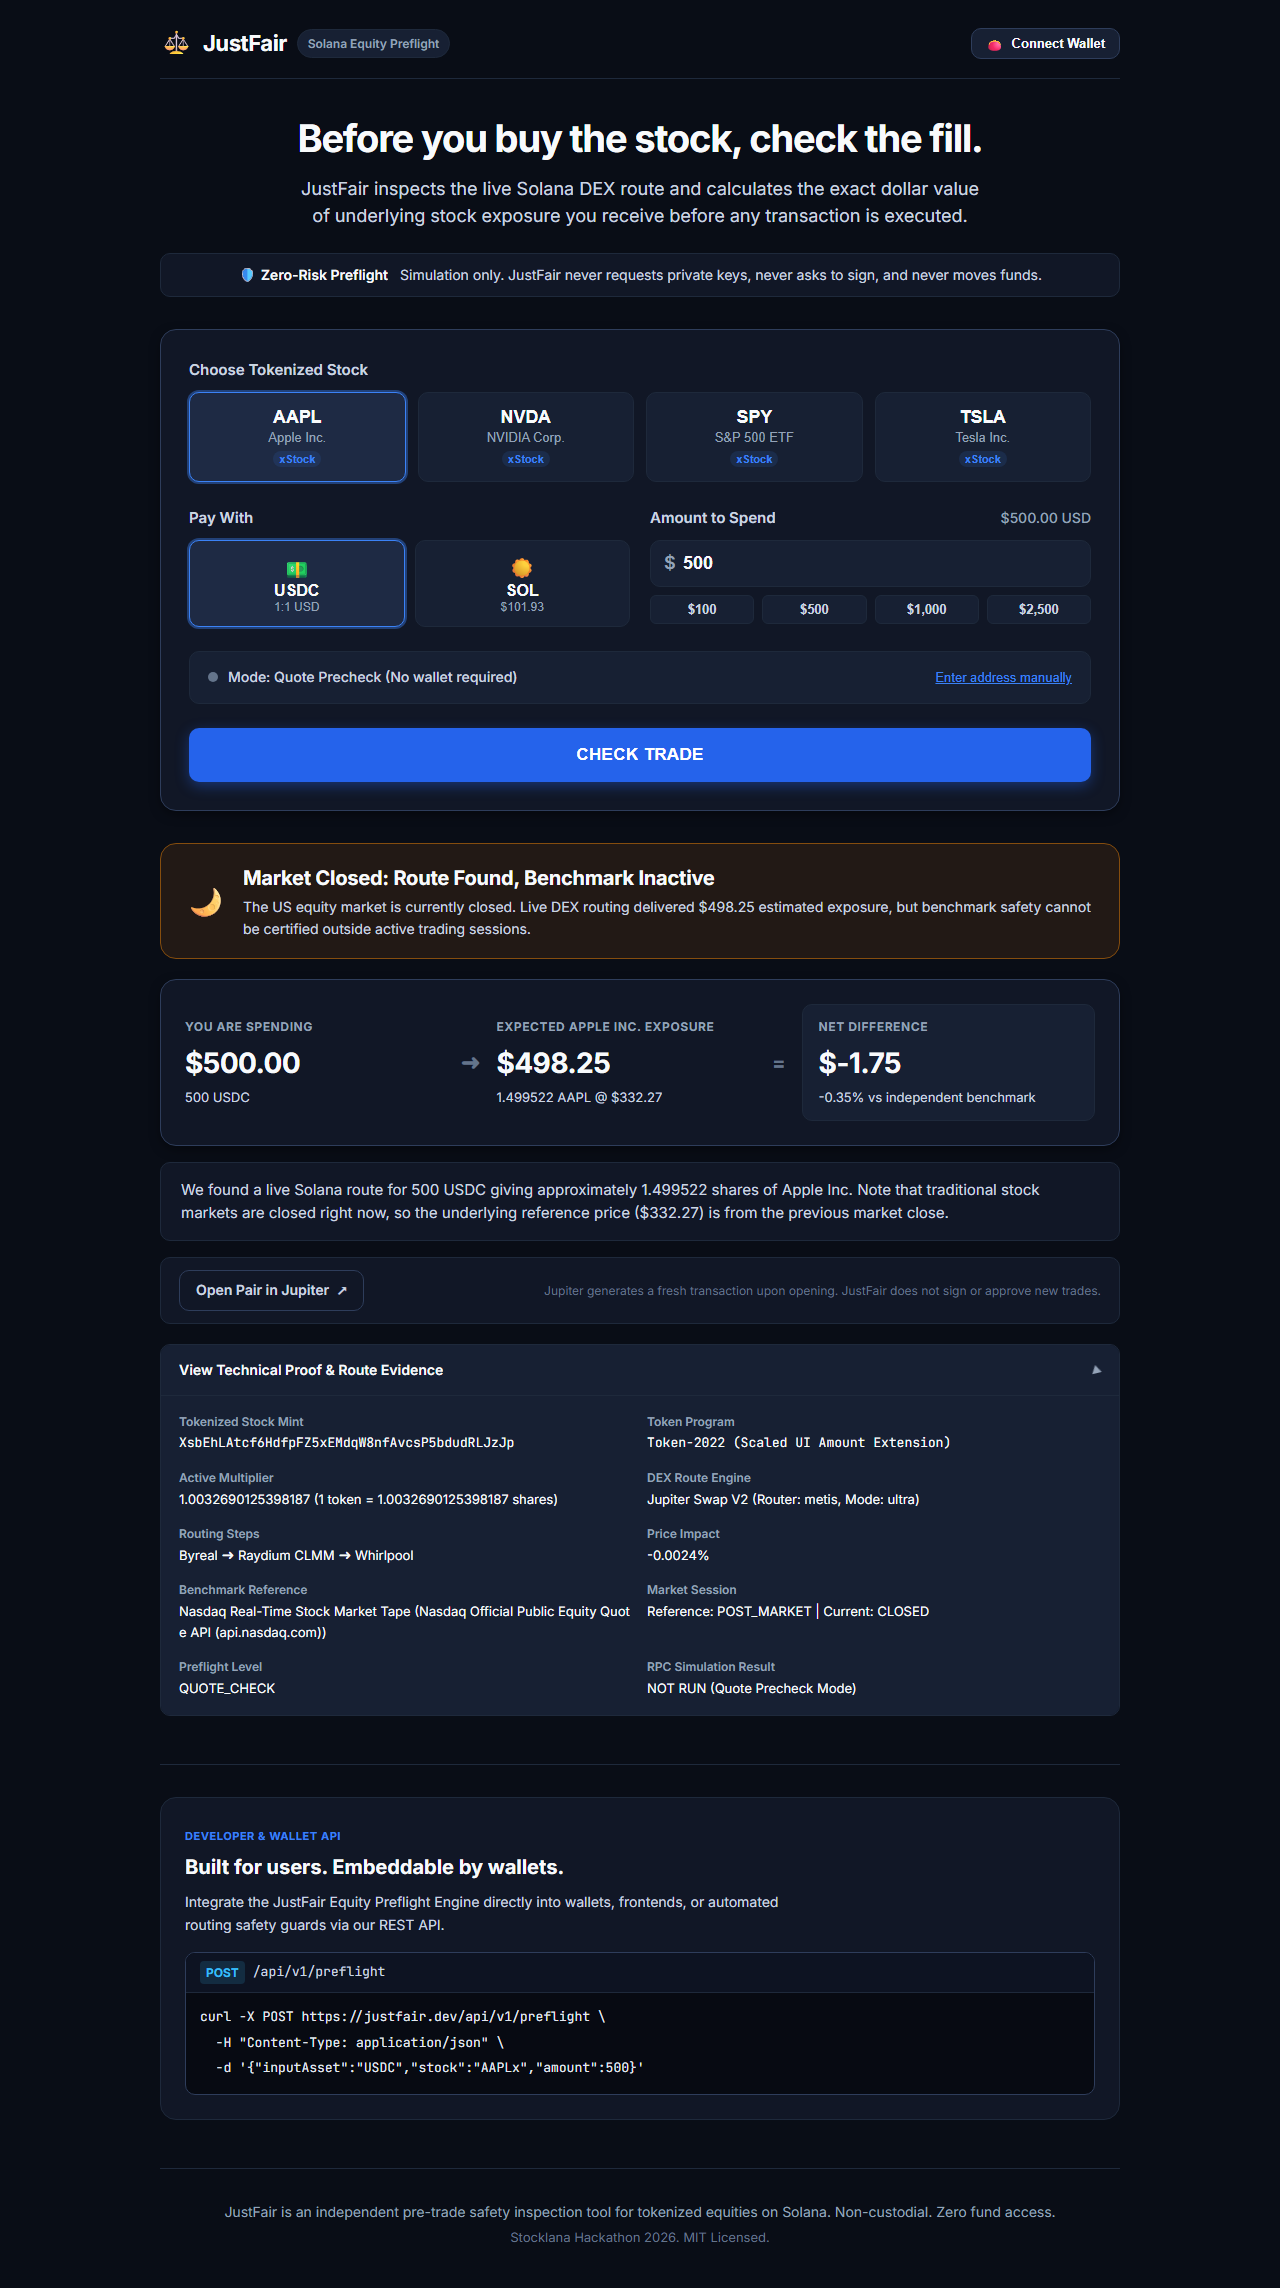
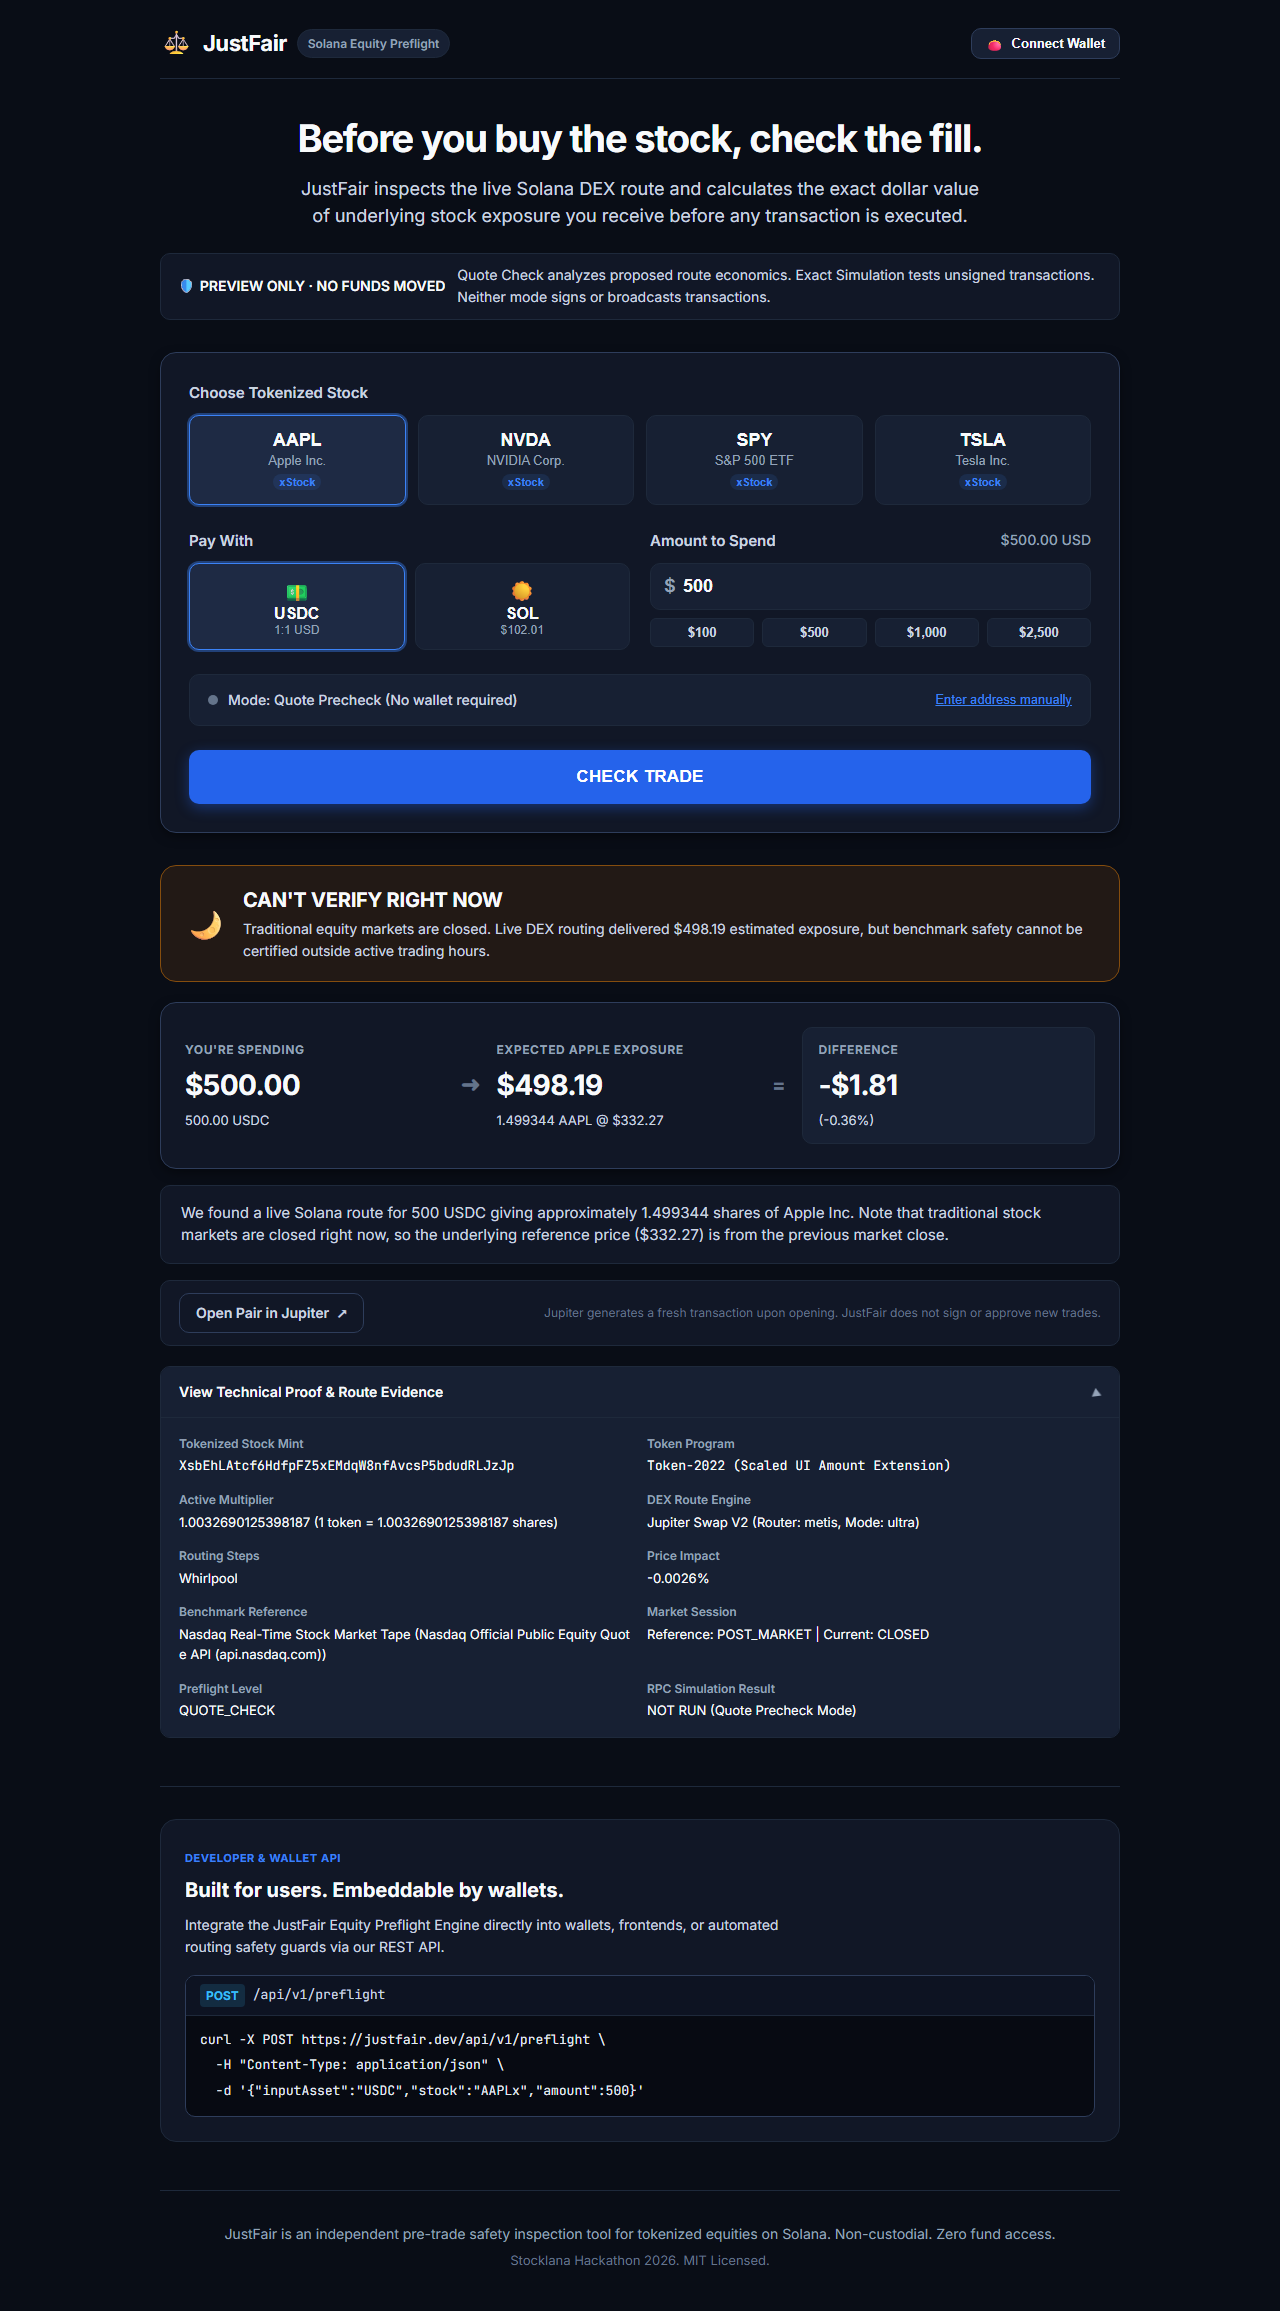
feat: complete Director Order 006.5 plain-money hierarchy, truthful safety copy, and UAT readiness

diff --git a/test/browser.test.js b/test/browser.test.js
@@ -42,7 +42,7 @@ async function runBrowserTests() {
 
   try {
     // 1. Initial Page Load & Render
-    await test("1. Initial page load renders hero, controls, and zero jargon headline", async () => {
+    await test("1. Initial page load renders hero, controls, safety banner with no Zero-Risk claim", async () => {
       await page.goto(BASE_URL, { waitUntil: "networkidle" });
       const heroText = await page.textContent(".hero-headline");
       if (!heroText.includes("Before you buy the stock, check the fill.")) {
@@ -54,11 +54,20 @@ async function runBrowserTests() {
         throw new Error(`Primary CTA mismatch: ${ctaText}`);
       }
 
+      // Check safety notice: MUST contain "NO FUNDS MOVED", MUST NOT contain "Zero-Risk" or "zero risk"
+      const pageContent = await page.content();
+      if (/zero-risk|zero\s+risk|risk-free/i.test(pageContent)) {
+        throw new Error("Page contains prohibited 'zero risk' or 'risk-free' claim");
+      }
+      if (!pageContent.includes("NO FUNDS MOVED")) {
+        throw new Error("Page does not contain expected 'NO FUNDS MOVED' safety copy");
+      }
+
       await page.screenshot({ path: path.join(EVIDENCE_DIR, "01_initial_page.png"), fullPage: true });
     });
 
     // 2. Form Interaction & Real API Trade Check (AAPLx + USDC $500)
-    await test("2. Real AAPLx + USDC trade check renders Big 3 plain-money values", async () => {
+    await test("2. Real AAPLx + USDC trade check renders locked 3 primary metrics and secondary shares", async () => {
       // Ensure AAPLx and USDC are active
       await page.click(".stock-chip[data-symbol='AAPLx']");
       await page.click(".payment-tab[data-asset='USDC']");
@@ -70,15 +79,35 @@ async function runBrowserTests() {
       // Wait for result container to appear
       await page.waitForSelector("#result-state:not(.hidden)", { timeout: 15000 });
 
+      // Metric #1: YOU'RE SPENDING
+      const spendLabel = await page.textContent(".money-stat:nth-child(1) .money-label");
       const spendVal = await page.textContent("#res-spend-val");
-      const exposureVal = await page.textContent("#res-exposure-val");
-      const diffVal = await page.textContent("#res-diff-val");
-      const explanation = await page.textContent("#res-explanation");
+      const spendSub = await page.textContent("#res-spend-sub");
+      if (!spendLabel.includes("YOU'RE SPENDING")) throw new Error(`Metric 1 label mismatch: ${spendLabel}`);
+      if (!spendVal.includes("$500.00")) throw new Error(`Metric 1 spend value mismatch: ${spendVal}`);
+      if (!spendSub.includes("USDC")) throw new Error(`Metric 1 subtext mismatch: ${spendSub}`);
 
-      if (!spendVal.includes("$500.00")) throw new Error(`Spend value mismatch: ${spendVal}`);
-      if (!exposureVal.includes("$")) throw new Error(`Exposure value missing: ${exposureVal}`);
-      if (!diffVal.includes("$")) throw new Error(`Difference value missing: ${diffVal}`);
-      if (!explanation || explanation.length < 20) throw new Error("Explanation text missing");
+      // Metric #2: EXPECTED APPLE EXPOSURE
+      const exposureLabel = await page.textContent("#res-exposure-label");
+      const exposureVal = await page.textContent("#res-exposure-val");
+      const exposureSub = await page.textContent("#res-exposure-sub");
+      if (!exposureLabel.includes("EXPECTED APPLE EXPOSURE")) throw new Error(`Metric 2 label mismatch: ${exposureLabel}`);
+      if (!exposureVal.includes("$")) throw new Error(`Metric 2 exposure value missing: ${exposureVal}`);
+      if (!exposureSub.includes("AAPL @ $")) throw new Error(`Metric 2 secondary shares mismatch: ${exposureSub}`);
+
+      // Metric #3: DIFFERENCE
+      const diffLabel = await page.textContent(".money-stat.highlight .money-label");
+      const diffVal = await page.textContent("#res-diff-val");
+      const diffPct = await page.textContent("#res-diff-pct");
+      if (!diffLabel.includes("DIFFERENCE")) throw new Error(`Metric 3 label mismatch: ${diffLabel}`);
+      if (!diffVal.includes("$")) throw new Error(`Metric 3 difference value missing: ${diffVal}`);
+      if (!diffPct.includes("%")) throw new Error(`Metric 3 difference percentage missing: ${diffPct}`);
+
+      // Verdict State: truthful CAN'T VERIFY RIGHT NOW or MEASURED
+      const verdictTitle = await page.textContent("#verdict-title");
+      if (!verdictTitle.includes("CAN'T VERIFY RIGHT NOW") && !verdictTitle.includes("MEASURED")) {
+        throw new Error(`Unexpected production verdict title: ${verdictTitle}`);
+      }
 
       await page.screenshot({ path: path.join(EVIDENCE_DIR, "02_aaplx_usdc_result.png"), fullPage: true });
       await page.screenshot({ path: path.join(EVIDENCE_DIR, "03_market_closed_measured_result.png"), fullPage: true });
@@ -189,3 +218,4 @@ runBrowserTests().catch(err => {
   console.error("Playwright Test Runner Crashed:", err);
   process.exitCode = 1;
 });
+

diff --git a/public/app.js b/public/app.js
@@ -302,37 +302,42 @@ function renderResult(data) {
   const diffPct = econ.difference_pct;
   const stockMeta = STOCK_META[trade.stock_symbol] || { name: trade.canonical_stock };
 
-  // Set Spending Value
+  // Set Spending Value (Primary Metric #1)
   resSpendVal.textContent = `$${trade.input_usd_value.toLocaleString("en-US", { minimumFractionDigits: 2, maximumFractionDigits: 2 })}`;
-  resSpendSub.textContent = `${trade.input_amount} ${trade.input_asset}`;
+  if (trade.input_asset === "SOL") {
+    resSpendSub.textContent = `${trade.input_amount} SOL`;
+  } else {
+    resSpendSub.textContent = `${trade.input_amount.toLocaleString("en-US", { minimumFractionDigits: 2, maximumFractionDigits: 2 })} ${trade.input_asset}`;
+  }
 
-  // Set Exposure Value
-  resExposureLabel.textContent = `EXPECTED ${stockMeta.name.toUpperCase()} EXPOSURE`;
+  // Set Exposure Value (Primary Metric #2)
+  const assetShortName = (stockMeta.name || trade.canonical_stock).replace(/\s+(Inc\.?|Corp\.?|ETF)$/i, "").toUpperCase();
+  resExposureLabel.textContent = `EXPECTED ${assetShortName} EXPOSURE`;
   resExposureVal.textContent = `$${econ.expected_stock_exposure_usd.toLocaleString("en-US", { minimumFractionDigits: 2, maximumFractionDigits: 2 })}`;
-  resExposureSub.textContent = `${econ.expected_stock_shares} ${trade.canonical_stock} @ $${bench.price}`;
+  resExposureSub.textContent = `${econ.expected_stock_shares} ${trade.canonical_stock} @ $${Number(bench.price).toFixed(2)}`;
 
-  // Set Net Difference
-  const diffPrefix = econ.difference_usd >= 0 ? "+" : "";
-  resDiffVal.textContent = `${diffPrefix}$${econ.difference_usd.toFixed(2)}`;
-  resDiffPct.textContent = `${diffPrefix}${diffPct.toFixed(2)}% vs independent benchmark`;
+  // Set Net Difference (Primary Metric #3)
+  const diffPrefix = econ.difference_usd >= 0 ? "+" : "-";
+  resDiffVal.textContent = `${diffPrefix}$${Math.abs(econ.difference_usd).toFixed(2)}`;
+  resDiffPct.textContent = `(${econ.difference_usd >= 0 ? "+" : ""}${diffPct.toFixed(2)}%)`;
 
   // Verdict Banner State
   verdictBanner.className = "verdict-banner";
   if (mkt.session === "CLOSED" || bench.freshness_status === "AFTER_HOURS_CLOSE") {
     verdictBanner.classList.add("verdict-closed");
     verdictIcon.textContent = "🌙";
-    verdictTitle.textContent = "Market Closed: Route Found, Benchmark Inactive";
-    verdictSubtitle.textContent = `The US equity market is currently closed. Live DEX routing delivered $${econ.expected_stock_exposure_usd} estimated exposure, but benchmark safety cannot be certified outside active trading sessions.`;
-  } else if (data.verdict === "MEASURED" || data.verification_status === "VERIFIED") {
+    verdictTitle.textContent = "CAN'T VERIFY RIGHT NOW";
+    verdictSubtitle.textContent = `Traditional equity markets are closed. Live DEX routing delivered $${econ.expected_stock_exposure_usd.toFixed(2)} estimated exposure, but benchmark safety cannot be certified outside active trading hours.`;
+  } else if (data.verdict === "MEASURED" || data.verification_status === "UNABLE_TO_VERIFY") {
     verdictBanner.classList.add("verdict-measured");
     verdictIcon.textContent = "⚖";
-    verdictTitle.textContent = "Trade Route Evaluated";
-    verdictSubtitle.textContent = `Economic difference measured at ${diffPrefix}${diffPct.toFixed(2)}%. Threshold safety calibration is currently pending live tape verification.`;
+    verdictTitle.textContent = "MEASURED";
+    verdictSubtitle.textContent = `Economic difference measured at ${diffPrefix}${diffPct.toFixed(2)}%. Threshold safety calibration is pending live market tape verification.`;
   } else {
     verdictBanner.classList.add("verdict-measured");
-    verdictIcon.textContent = "ℹ";
-    verdictTitle.textContent = "Preflight Inspection Completed";
-    verdictSubtitle.textContent = `Reason: ${data.reason_codes?.join(", ")}`;
+    verdictIcon.textContent = "⚖";
+    verdictTitle.textContent = "MEASURED";
+    verdictSubtitle.textContent = `Preflight inspection completed. Reason: ${data.reason_codes?.join(", ")}`;
   }
 
   // Plain English Explanation

diff --git a/public/index.html b/public/index.html
@@ -41,8 +41,8 @@
 
       <!-- Safety Notice -->
       <div class="safety-banner" role="status">
-        <span class="safety-badge">🛡 Zero-Risk Preflight</span>
-        <span class="safety-text">Simulation only. JustFair never requests private keys, never asks to sign, and never moves funds.</span>
+        <span class="safety-badge">🛡 PREVIEW ONLY · NO FUNDS MOVED</span>
+        <span class="safety-text">Quote Check analyzes proposed route economics. Exact Simulation tests unsigned transactions. Neither mode signs or broadcasts transactions.</span>
       </div>
 
       <!-- Trade Inspector Form -->
@@ -178,7 +178,7 @@
         <div class="verdict-banner" id="verdict-banner">
           <div class="verdict-status-icon" id="verdict-icon">⚖</div>
           <div class="verdict-text-group">
-            <h2 class="verdict-title" id="verdict-title">Trade Evaluated</h2>
+            <h2 class="verdict-title" id="verdict-title">MEASURED</h2>
             <p class="verdict-subtitle" id="verdict-subtitle">Economic difference measured against independent market benchmark.</p>
           </div>
         </div>
@@ -186,7 +186,7 @@
         <!-- Big 3 Numbers Card -->
         <div class="plain-money-card">
           <div class="money-stat">
-            <span class="money-label">YOU ARE SPENDING</span>
+            <span class="money-label">YOU'RE SPENDING</span>
             <span class="money-value" id="res-spend-val">$500.00</span>
             <span class="money-sub" id="res-spend-sub">500.00 USDC</span>
           </div>
@@ -202,9 +202,9 @@
           <div class="money-divider">=</div>
 
           <div class="money-stat highlight">
-            <span class="money-label">NET DIFFERENCE</span>
+            <span class="money-label">DIFFERENCE</span>
             <span class="money-value" id="res-diff-val">-$1.77</span>
-            <span class="money-sub" id="res-diff-pct">-0.35% from benchmark</span>
+            <span class="money-sub" id="res-diff-pct">(-0.35%)</span>
           </div>
         </div>
 

diff --git a/test/e2e.test.js b/test/e2e.test.js
@@ -46,8 +46,8 @@ async function runE2ETests() {
       if (!html.includes("USDC") || !html.includes("SOL")) {
         throw new Error("Missing payment asset options");
       }
-      if (!html.includes("Zero-Risk Preflight")) {
-        throw new Error("Missing non-custodial safety guarantee banner");
+      if (!html.includes("PREVIEW ONLY · NO FUNDS MOVED")) {
+        throw new Error("Missing non-custodial safety banner");
       }
       if (!html.includes("Built for users. Embeddable by wallets.")) {
         throw new Error("Missing secondary API showcase section");

diff --git a/api/index.js b/api/index.js
@@ -3,3 +3,4 @@ import handler from "../src/server.js";
 export default async function (req, res) {
   return handler(req, res);
 }
+
